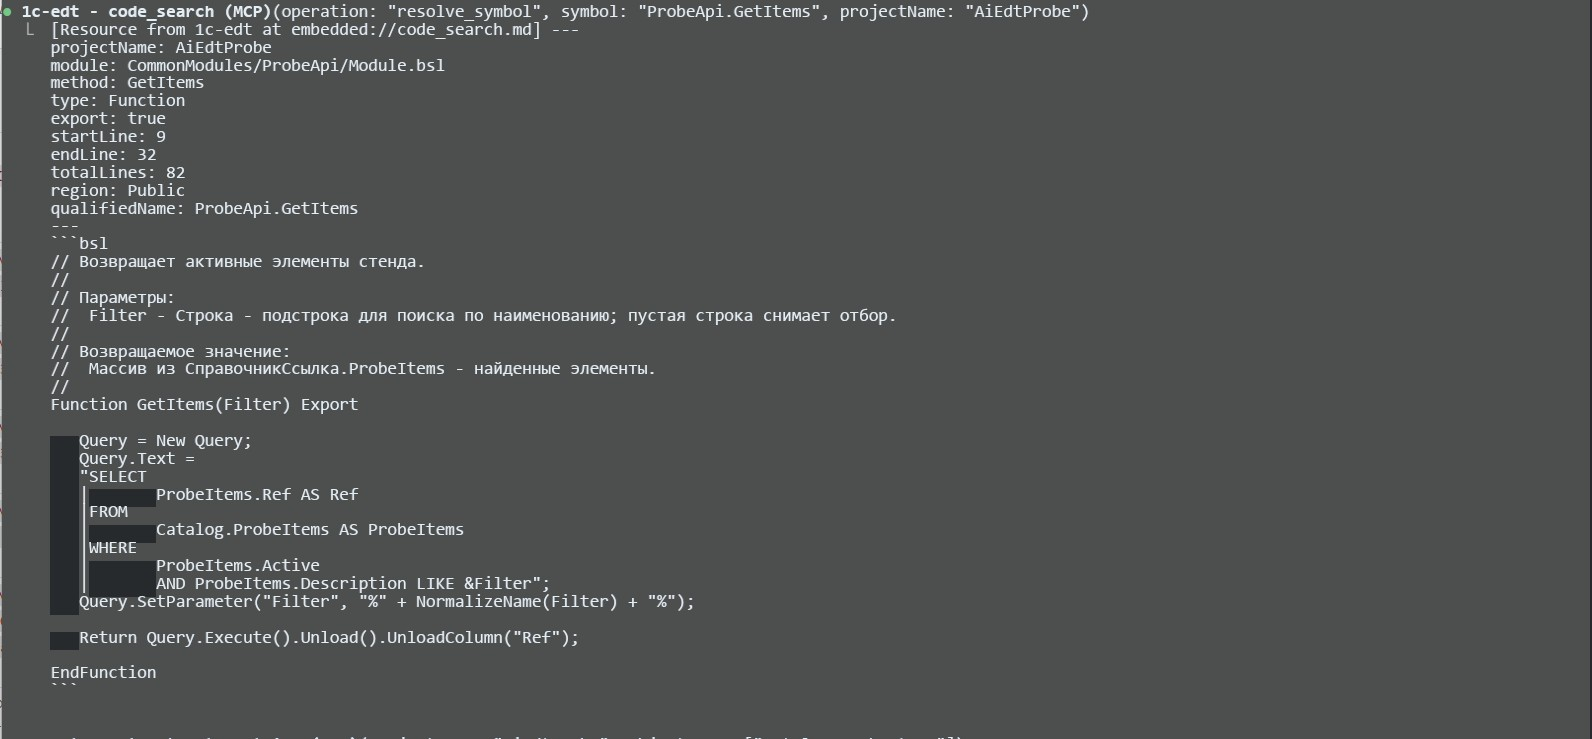
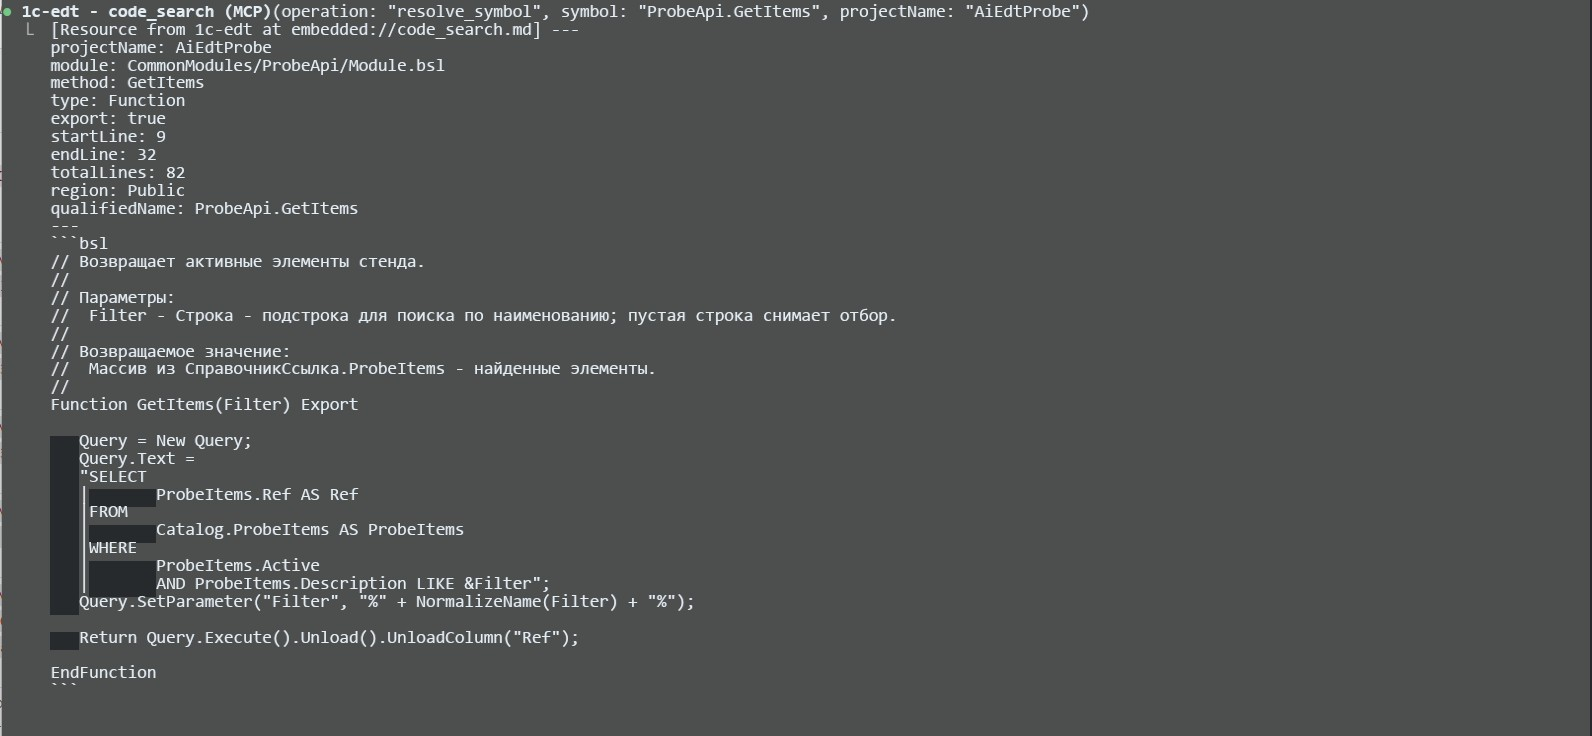
Rearrange the readme around the update site and the screenshot
The tool-call screenshot sat between the two diagrams, so three heavy
visuals ran back to back and it read as a layout accident. It moves up
to the end of "Why AI-EDT", where it demonstrates the claim the section
makes, and the two diagrams now sit one per section.

The update site left the compatibility callout, which is about versions,
and became the first way to install: an address that goes straight into
the dialog, ahead of the local archive and folder.

Also trims a line of text the screenshot had cut through, and drops the
word "live" from a diagram label.

diff --git a/README.en.md b/README.en.md
@@ -22,7 +22,7 @@ AI-EDT is an MCP server implemented as a plugin running **inside a live 1C:EDT i
 Instead of treating an EDT workspace as a directory of XML and BSL files, an assistant can use EDT's own semantic model, indexes, validators and debug services.
 
 > [!IMPORTANT]
-> Update site: `https://desko77.github.io/ai-edt/` - point **Help → Install New Software** straight at it instead of building the plugin yourself. Building from source is described below as well. The current line targets **1C:EDT 2026.1+**, **Java 17** and Windows.
+> The current line targets **1C:EDT 2026.1+**, **Java 17** and Windows.
 
 ## Why AI-EDT
 
@@ -36,6 +36,8 @@ A text-only assistant can search files, but it cannot reliably answer questions 
 - Can a metadata change be applied without hand-editing EDT XML?
 
 AI-EDT exposes those operations as purpose-built MCP tools. The result is less guessing, fewer brittle text edits and a workflow that stays inside the same model EDT uses.
+
+![An AI assistant reads the semantic EDT model instead of scraping project files.](docs/assets/screenshots/agent-workflow.png)
 
 ## What you can do
 
@@ -60,12 +62,10 @@ flowchart TD
     P --> E["Edits BSL or metadata"]
     E --> V["Runs EDT validation and tests"]
     V --> D{"Problem found?"}
-    D -- Yes --> B["Debugs the live 1C session"]
+    D -- Yes --> B["Debugs the 1C session"]
     B --> E
     D -- No --> R["Returns the verified result"]
 ```
-
-![An AI assistant reads the semantic EDT model instead of scraping project files.](docs/assets/screenshots/agent-workflow.png)
 
 ## How it works
 
@@ -133,7 +133,13 @@ mcp/repositories/ru.aiedt.mcp.server.repository/target/repository
 
 ### 3. Install into EDT
 
-Install through the EDT user interface, or from the command line if you prefer scripting. Both routes install the same feature.
+The built plugin is published as an update site, so building it yourself is optional:
+
+```text
+https://desko77.github.io/ai-edt/
+```
+
+EDT takes that address the same way it takes a local archive. Both routes below - the user interface and the command line - install the same feature.
 
 > [!TIP]
 > You can also ask your AI agent to do it for you. Point it at
@@ -150,9 +156,10 @@ Install through the EDT user interface, or from the command line if you prefer s
 
 ![The installer opens with no repository selected.](docs/assets/screenshots/install-available-software.png)
 
-**Step 3.** In the **Add Repository** dialog point EDT at the build output. Either option works:
+**Step 3.** In the **Add Repository** dialog tell EDT where to take the plugin from. Any of these works:
 
-- **Archive** and the file `mcp/repositories/ru.aiedt.mcp.server.repository/target/AI-EDT-<version>.zip`;
+- the **Location** field and the update site `https://desko77.github.io/ai-edt/`;
+- **Archive** and the file `mcp/repositories/ru.aiedt.mcp.server.repository/target/AI-EDT-<version>.zip` from a local build;
 - **Local** and the folder `mcp/repositories/ru.aiedt.mcp.server.repository/target/repository`.
 
 The repository name is arbitrary, for example `AI-EDT`.
